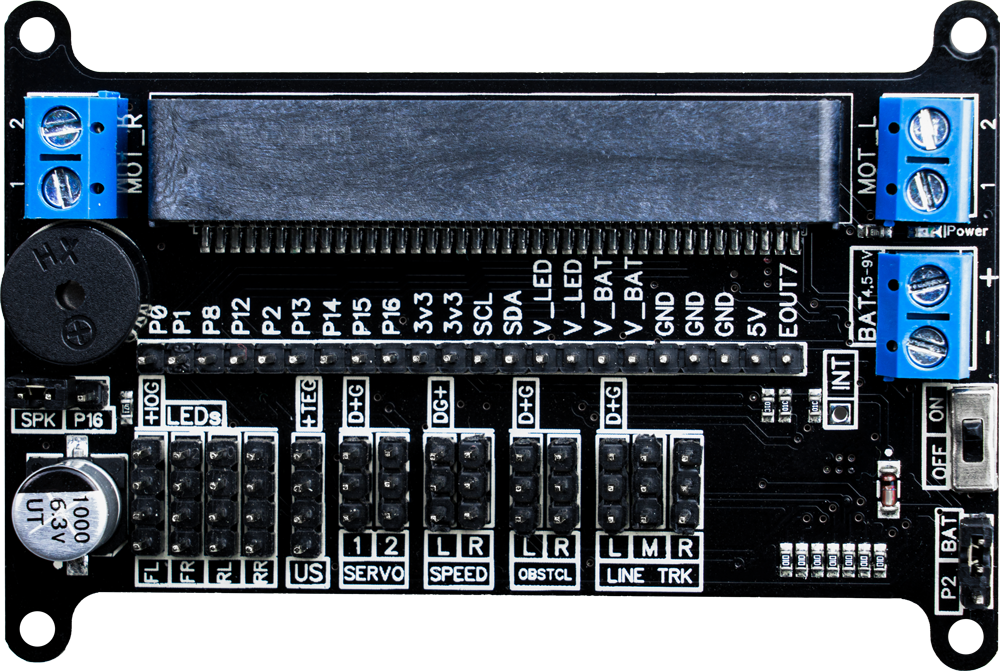
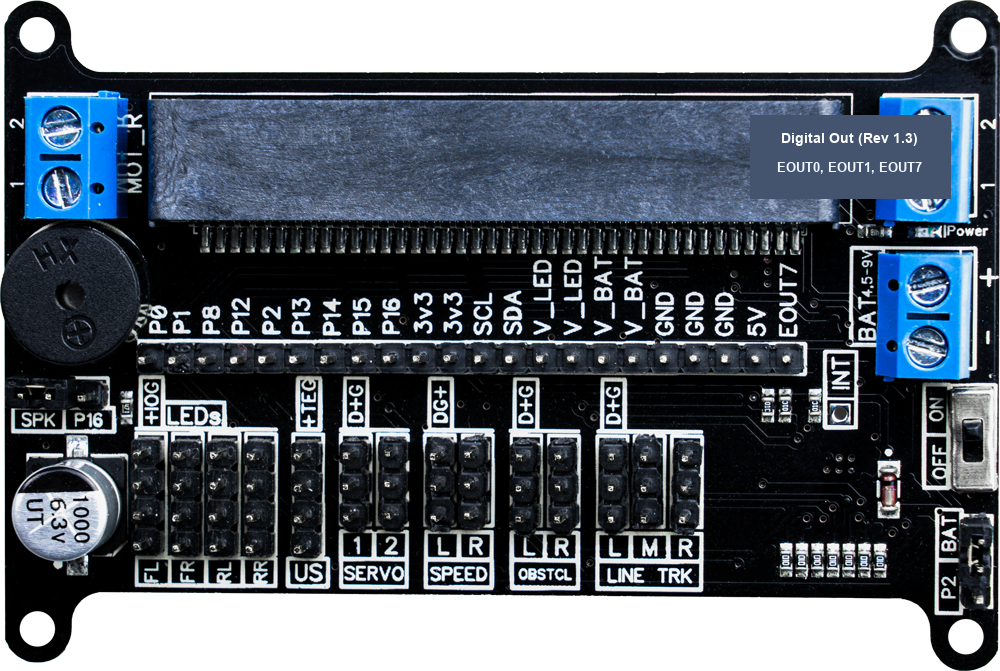
fix: aktualizace schematu desky na Rev 1.3 s piny EOUT0, EOUT1 a EOUT7 a pridani diagramu IO expanderu

Changed region(s): [[0.744, 0.149, 0.961, 0.2981]]

diff --git a/README.md b/README.md
@@ -24,9 +24,11 @@ Během kurzu budete pracovat se **stavebnicí JoyCar** a **dvěma procesorovými
   - Výkonové řízení obou stejnosměrných motorů přes integrovaný I²C budič (obvod PCA9633).
   - Adresovatelné RGB LED diody (NeoPixel / WS2812B) vpředu i vzadu pro blinkry, brzdová světla a světlomety.
   - Piezoelektrický bzučák pro akustickou signalizaci a přehrávání tónů.
-- **Rozšiřitelnost:** Hlavní sběrnice I²C s expandérem PCF8574, který nabízí volné piny pro připojení dalších periferií (jak si ukážeme v kapitole o rozšíření na 6 senzorů čáry, LCD displej či externí H-můstek).
+- **Rozšiřitelnost (deska Revize 1.3):** Hlavní sběrnice I²C s expandérem PCA9555 (adresa `0x38`). V revizi 1.3 jsou snímače otáček motorů zapojeny přímo do pinů mikrokontroléru, což na rozšiřujícím konektoru I²C expandéru uvolnilo **3 volné digitální výstupy: EOUT0, EOUT1 a EOUT7** pro připojení dalších periferií (jak si ukážeme v kapitole o rozšíření na 6 senzorů čáry, LCD displej či externí H-můstek).
 
-<img src="images/joycar-mainboard-popis.png" width="550" alt="Přehled komponent a zapojení základní desky JoyCar">
+<img src="images/joycar-mainboard-popis.png" width="580" alt="Přehled komponent a zapojení základní desky JoyCar Rev 1.3 s piny EOUT0, EOUT1 a EOUT7">
+
+<img src="images/joycar-io-expander-rev1.3.png" width="580" alt="Detailní zapojení 8 pinů I2C expandéru pro Revizi 1.3 (EOUT0, EOUT1 a EOUT7)">
 
 #### 🎯 K čemu JoyCar v kurzu slouží:
 1. **Autonomní navigace a jízda po čáře:** Vývoj algoritmů od základního binárního přepínání přes plynulou regulaci (P a PID regulace) až po spolehlivou detekci složitých křižovatek a odboček.

diff --git a/5-montaz-a-zapojeni-joycaru.md b/5-montaz-a-zapojeni-joycaru.md
@@ -302,6 +302,8 @@ Pro porozumění tomu, jak mikrokontrolér s jednotlivými periferiemi komunikuj
    - `Pin 6` $\rightarrow$ Pravý senzor překážek (`Obstacle Sensor Right`)
    - `Pin 7` $\rightarrow$ Volný pin **`EOUT7`** na hlavní liště  
    *(Volné piny EOUT0, EOUT1 a EOUT7 v pokročilé části kurzu využijeme pro připojení dalších 3 senzorů čáry!)*
+
+   <img src="images/joycar-io-expander-rev1.3.png" width="650" alt="Detailní zapojení 8 pinů I2C expandéru pro Revizi 1.3 (EOUT0, EOUT1 a EOUT7)">
 2. **Řízení motorů (PWM + Direction):**  
    Motory jsou řízeny specializovaným I²C PWM čipem **PCA9633**, který generuje PWM signály pro levý i pravý motor.
 3. **Přímo vyvedené piny mikrokontroléru:**
